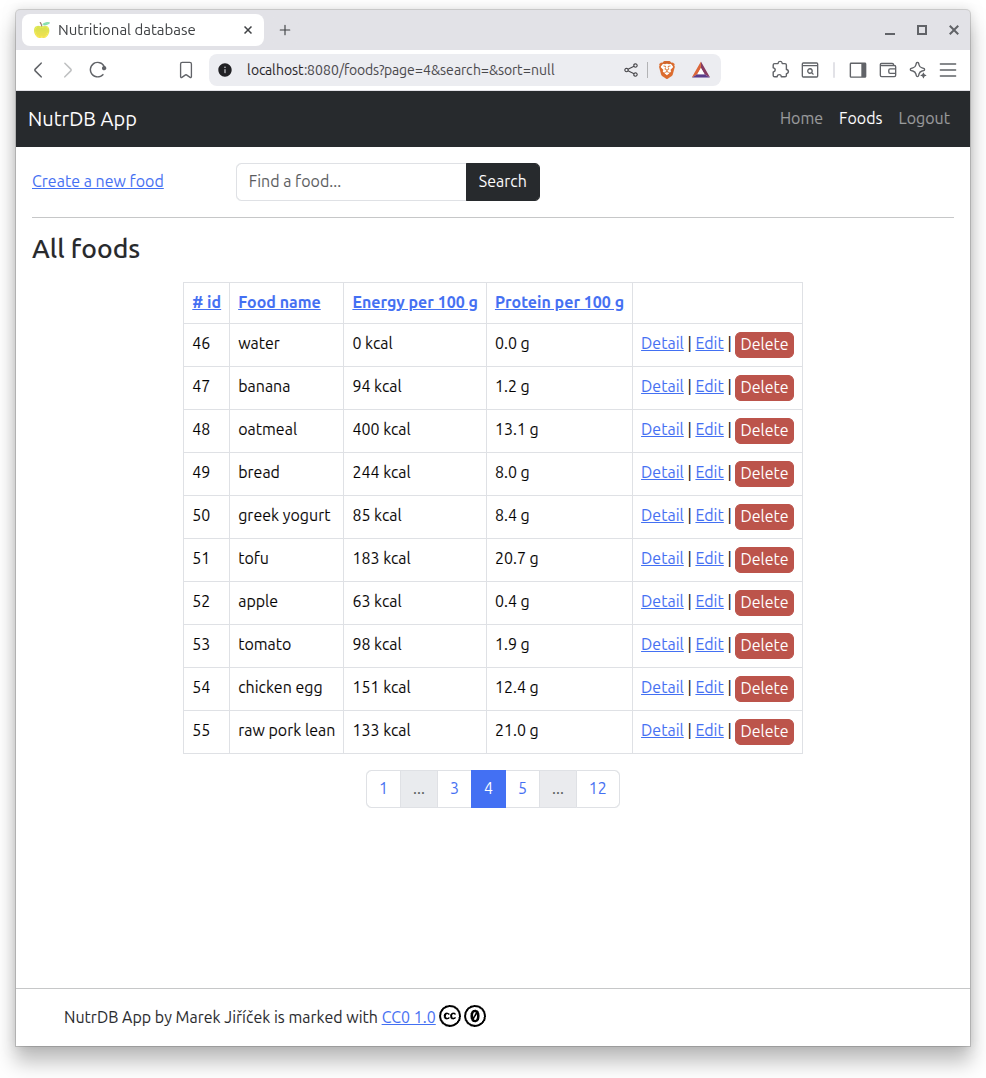
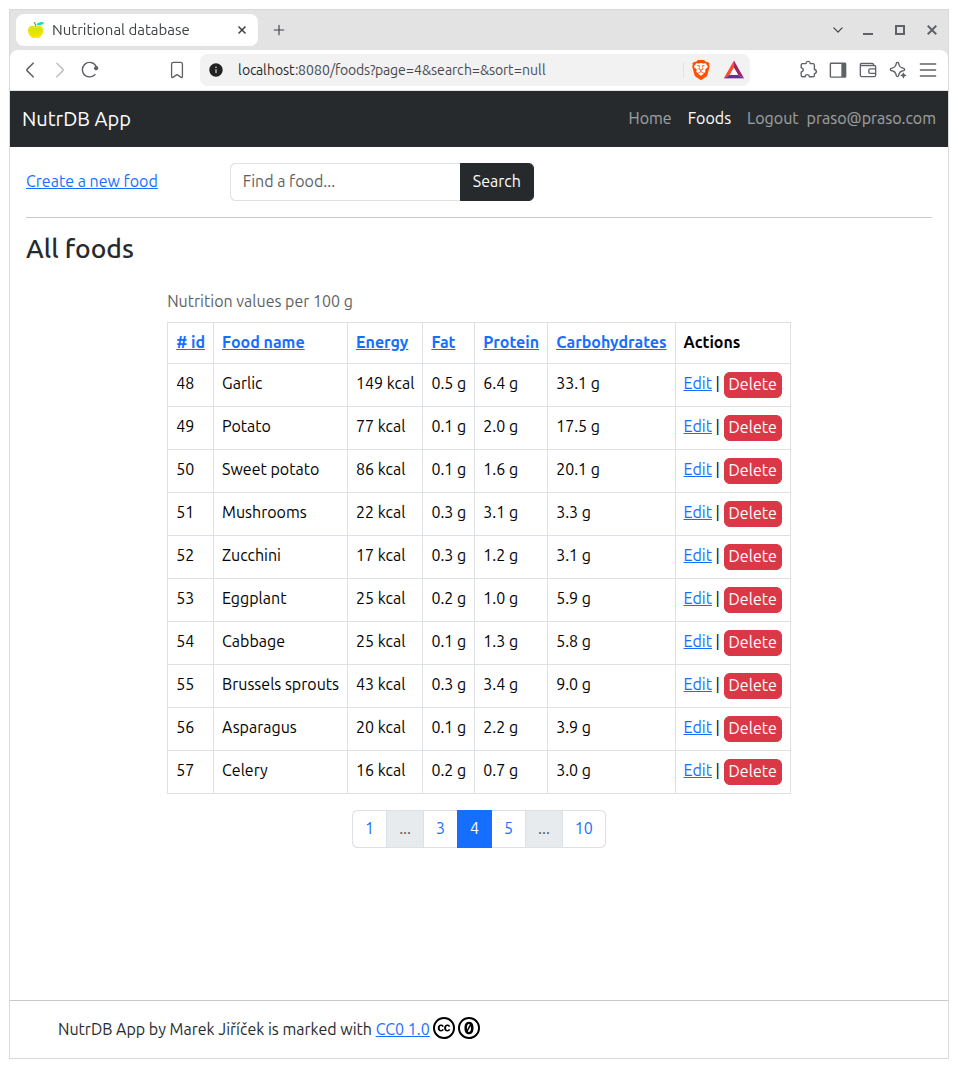
- fix: FoodEntity now supports gram values up to 100.0 - add: initializer with demo food data - mod: README.org

diff --git a/src/main/java/springProj/nutrDB/configuration/FoodDataInitializer.java b/src/main/java/springProj/nutrDB/configuration/FoodDataInitializer.java
@@ -1,0 +1,146 @@
+package springProj.nutrDB.configuration;
+
+import org.springframework.boot.CommandLineRunner;
+import org.springframework.stereotype.Component;
+import org.springframework.transaction.annotation.Transactional;
+import springProj.nutrDB.data.entities.FoodEntity;
+import springProj.nutrDB.data.repositories.FoodRepository;
+
+import java.math.BigDecimal;
+import java.util.List;
+
+
+/**
+ * Initializes the FoodEntity table with demo data
+ */
+@Component
+public class FoodDataInitializer implements CommandLineRunner {
+
+    private final FoodRepository foodRepository;
+
+    public FoodDataInitializer(FoodRepository foodRepository) {
+        this.foodRepository = foodRepository;
+    }
+
+    @Override
+    @Transactional
+    public void run(String... args) {
+        if (foodRepository.count() > 0) // Fill the foodRepository iff it is empty
+        {
+            return;
+        }
+
+        foodRepository.saveAll(List.of(
+                food("Apple", 52, "0.3", "13.8", "0.2"),
+                food("Banana", 89, "1.1", "22.8", "0.3"),
+                food("Orange", 47, "0.9", "11.8", "0.1"),
+                food("Pear", 57, "0.4", "15.2", "0.1"),
+                food("Peach", 39, "0.9", "9.5", "0.3"),
+                food("Plum", 46, "0.7", "11.4", "0.3"),
+                food("Strawberries", 32, "0.7", "7.7", "0.3"),
+                food("Blueberries", 57, "0.7", "14.5", "0.3"),
+                food("Raspberries", 52, "1.2", "11.9", "0.7"),
+                food("Grapes", 69, "0.7", "18.1", "0.2"),
+                food("Watermelon", 30, "0.6", "7.6", "0.2"),
+                food("Pineapple", 50, "0.5", "13.1", "0.1"),
+                food("Mango", 60, "0.8", "15.0", "0.4"),
+                food("Kiwi", 61, "1.1", "14.7", "0.5"),
+                food("Avocado", 160, "2.0", "8.5", "14.7"),
+                food("Cherries", 63, "1.1", "16.0", "0.2"),
+                food("Apricot", 48, "1.4", "11.1", "0.4"),
+                food("Pomegranate", 83, "1.7", "18.7", "1.2"),
+                food("Coconut flesh", 354, "3.3", "15.2", "33.5"),
+                food("Carrot", 41, "0.9", "9.6", "0.2"),
+                food("Broccoli", 34, "2.8", "6.6", "0.4"),
+                food("Cauliflower", 25, "1.9", "5.0", "0.3"),
+                food("Spinach", 23, "2.9", "3.6", "0.4"),
+                food("Kale", 49, "4.3", "8.8", "0.9"),
+                food("Tomato", 18, "0.9", "3.9", "0.2"),
+                food("Cucumber", 15, "0.7", "3.6", "0.1"),
+                food("Red bell pepper", 31, "1.0", "6.0", "0.3"),
+                food("Green peas", 81, "5.4", "14.5", "0.4"),
+                food("Sweet corn", 86, "3.3", "19.0", "1.4"),
+                food("Onion", 40, "1.1", "9.3", "0.1"),
+                food("Garlic", 149, "6.4", "33.1", "0.5"),
+                food("Potato", 77, "2.0", "17.5", "0.1"),
+                food("Sweet potato", 86, "1.6", "20.1", "0.1"),
+                food("Mushrooms", 22, "3.1", "3.3", "0.3"),
+                food("Zucchini", 17, "1.2", "3.1", "0.3"),
+                food("Eggplant", 25, "1.0", "5.9", "0.2"),
+                food("Cabbage", 25, "1.3", "5.8", "0.1"),
+                food("Brussels sprouts", 43, "3.4", "9.0", "0.3"),
+                food("Asparagus", 20, "2.2", "3.9", "0.1"),
+                food("Celery", 16, "0.7", "3.0", "0.2"),
+                food("Beetroot", 43, "1.6", "9.6", "0.2"),
+                food("Pumpkin", 26, "1.0", "6.5", "0.1"),
+                food("Green beans", 31, "1.8", "7.0", "0.2"),
+                food("Lettuce", 15, "1.4", "2.9", "0.2"),
+                food("Parsnip", 75, "1.2", "18.0", "0.3"),
+                food("Butternut squash", 45, "1.0", "11.7", "0.1"),
+                food("Leek", 61, "1.5", "14.2", "0.3"),
+                food("Artichoke", 47, "3.3", "10.5", "0.2"),
+                food("Chicken breast", 165, "31.0", "0.0", "3.6"),
+                food("Chicken thigh", 209, "26.0", "0.0", "10.9"),
+                food("Turkey breast", 135, "30.0", "0.0", "1.0"),
+                food("Ground beef, 90% lean", 176, "20.0", "0.0", "10.0"),
+                food("Beef sirloin", 206, "27.0", "0.0", "10.0"),
+                food("Pork loin", 196, "27.0", "0.0", "9.0"),
+                food("Pork tenderloin", 143, "26.0", "0.0", "3.5"),
+                food("Lamb leg", 206, "28.0", "0.0", "10.0"),
+                food("Bacon", 541, "37.0", "1.4", "42.0"),
+                food("Ham", 145, "21.0", "1.5", "5.5"),
+                food("Salmon", 208, "20.4", "0.0", "13.4"),
+                food("Atlantic cod", 82, "18.0", "0.0", "0.7"),
+                food("Tuna, canned in water", 116, "25.5", "0.0", "0.8"),
+                food("Sardines", 208, "24.6", "0.0", "11.5"),
+                food("Shrimp", 99, "24.0", "0.2", "0.3"),
+                food("Egg", 143, "12.6", "0.7", "9.5"),
+                food("Egg white", 52, "10.9", "0.7", "0.2"),
+                food("Whole milk", 61, "3.2", "4.8", "3.3"),
+                food("Semi-skimmed milk", 50, "3.4", "4.8", "1.8"),
+                food("Cheddar cheese", 403, "25.0", "1.3", "33.0"),
+                food("Mozzarella", 280, "28.0", "3.1", "17.0"),
+                food("Parmesan", 431, "38.0", "4.1", "29.0"),
+                food("Plain Greek yogurt", 97, "9.0", "3.9", "5.0"),
+                food("Plain yogurt", 61, "3.5", "4.7", "3.3"),
+                food("Cottage cheese", 98, "11.1", "3.4", "4.3"),
+                food("Butter", 717, "0.9", "0.1", "81.0"),
+                food("Cream cheese", 342, "6.2", "4.1", "34.0"),
+                food("Oats, dry", 389, "16.9", "66.3", "6.9"),
+                food("Brown rice, cooked", 123, "2.7", "25.6", "1.0"),
+                food("White rice, cooked", 130, "2.7", "28.2", "0.3"),
+                food("Quinoa, cooked", 120, "4.4", "21.3", "1.9"),
+                food("Whole wheat bread", 247, "13.0", "41.0", "4.2"),
+                food("White bread", 266, "8.9", "49.0", "3.2"),
+                food("Whole wheat pasta, cooked", 149, "5.8", "30.1", "0.9"),
+                food("Pasta, cooked", 157, "5.8", "30.9", "0.9"),
+                food("Buckwheat, cooked", 92, "3.4", "19.9", "0.6"),
+                food("Barley, cooked", 123, "2.3", "28.2", "0.4"),
+                food("Lentils, cooked", 116, "9.0", "20.1", "0.4"),
+                food("Chickpeas, cooked", 164, "8.9", "27.4", "2.6"),
+                food("Black beans, cooked", 132, "8.9", "23.7", "0.5"),
+                food("Kidney beans, cooked", 127, "8.7", "22.8", "0.5"),
+                food("Tofu, firm", 144, "17.3", "2.8", "8.7"),
+                food("Tempeh", 192, "20.3", "7.6", "10.8"),
+                food("Almonds", 579, "21.2", "21.6", "49.9"),
+                food("Walnuts", 654, "15.2", "13.7", "65.2"),
+                food("Peanut butter", 588, "25.0", "20.0", "50.0"),
+                food("Chia seeds", 486, "16.5", "42.1", "30.7"),
+                food("Sunflower seeds", 584, "20.8", "20.0", "51.5"),
+                food("Olive oil", 884, "0.0", "0.0", "100.0"),
+                food("Honey", 304, "0.3", "82.4", "0.0"),
+                food("Dark chocolate, 70%", 598, "7.8", "45.9", "42.6"),
+                food("Rye crispbread", 366, "10.0", "75.0", "3.0")
+        ));
+    }
+
+    private static FoodEntity food(String name, int kcal, String protein, String carbs, String fats) {
+        FoodEntity food = new FoodEntity();
+        food.setName(name);
+        food.setKcal((short) kcal);
+        food.setProtein(new BigDecimal(protein));
+        food.setCarbs(new BigDecimal(carbs));
+        food.setFats(new BigDecimal(fats));
+        return food;
+    }
+}

diff --git a/src/main/java/springProj/nutrDB/data/entities/FoodEntity.java b/src/main/java/springProj/nutrDB/data/entities/FoodEntity.java
@@ -52,29 +52,23 @@ public class FoodEntity {
 
     /**
      * protein content of the food - grams of protein per 100 grams of the food
-     * 3-digit decimal number, 2 digits for integer part, 1 digit for the decimal part
-     * represented as decimal(3,1), not null in SQL
-     * - takes up 2 bytes in the database, see <a href="https://mariadb.com/kb/en/data-type-storage-requirements/">Data Type Storage Requirements</a>
+     * represented as numeric(4,1), not null in PostgreSQL
      */
-    @Column(precision = 3, scale = 1, nullable = false)
+    @Column(precision = 4, scale = 1, nullable = false)
     private BigDecimal protein;
 
     /**
      * carbohydrate content of the food - grams of carbohydrates per 100 grams of the food
-     * 3-digit decimal number, 2 digits for integer part, 1 digit for the decimal part
-     * represented as decimal(3,1), not null in SQL
-     * - takes up 2 bytes in the database, see <a href="https://mariadb.com/kb/en/data-type-storage-requirements/">Data Type Storage Requirements</a>
+     * represented as numeric(4,1), not null in PostgreSQL
      */
-    @Column(precision = 3, scale = 1, nullable = false)
+    @Column(precision = 4, scale = 1, nullable = false)
     private BigDecimal carbs;
 
     /**
      * fat content of the food - grams of fat per 100 grams of the food
-     * 3-digit decimal number, 2 digits for integer part, 1 digit for the decimal part
-     * represented as decimal(3,1), not null in SQL
-     * - takes up 2 bytes in the database, see <a href="https://mariadb.com/kb/en/data-type-storage-requirements/">Data Type Storage Requirements</a>
+     * represented as numeric(4,1), not null in PostgreSQL
      */
-    @Column(precision = 3, scale = 1, nullable = false)
+    @Column(precision = 4, scale = 1, nullable = false)
     private BigDecimal fats;
 
      /**

diff --git a/src/main/java/springProj/nutrDB/models/dto/FoodDTO.java b/src/main/java/springProj/nutrDB/models/dto/FoodDTO.java
@@ -42,7 +42,7 @@ public class FoodDTO {
 
     /**
      * protein content of the food - grams of protein per 100 grams of the food
-     * validation constraints: 3-digit decimal number, 2 digits for integer part, 1 digit for the decimal part, min=0, max=100
+     * validation constraints: at most 3 integer digits and 1 fractional digit; value must be between 0.0 and 100.0
      */
     @DecimalMin(value = "0.0", message = "Gram value must be positive.")
     @DecimalMax(value = "100.0", message = "Impossibly big gram value.")
@@ -51,7 +51,7 @@ public class FoodDTO {
 
     /**
      * carbohydrate content of the food - grams of carbohydrates per 100 grams of the food
-     * validation constraints: 3-digit decimal number, 2 digits for integer part, 1 digit for the decimal part, min=0, max=100
+     * validation constraints: at most 3 integer digits and 1 fractional digit; value must be between 0.0 and 100.0
      */
     @DecimalMin(value = "0.0", message = "Gram value must be positive.")
     @DecimalMax(value = "100.0", message = "Impossibly big gram value.")
@@ -60,7 +60,7 @@ public class FoodDTO {
 
     /**
      * fat content of the food - grams of fat per 100 grams of the food
-     * validation constraints: 3-digit decimal number, 2 digits for integer part, 1 digit for the decimal part, min=0, max=100
+     * validation constraints: at most 3 integer digits and 1 fractional digit; value must be between 0.0 and 100.0
      */
     @DecimalMin(value = "0.0", message = "Gram value must be positive.")
     @DecimalMax(value = "100.0", message = "Impossibly big gram value.")
